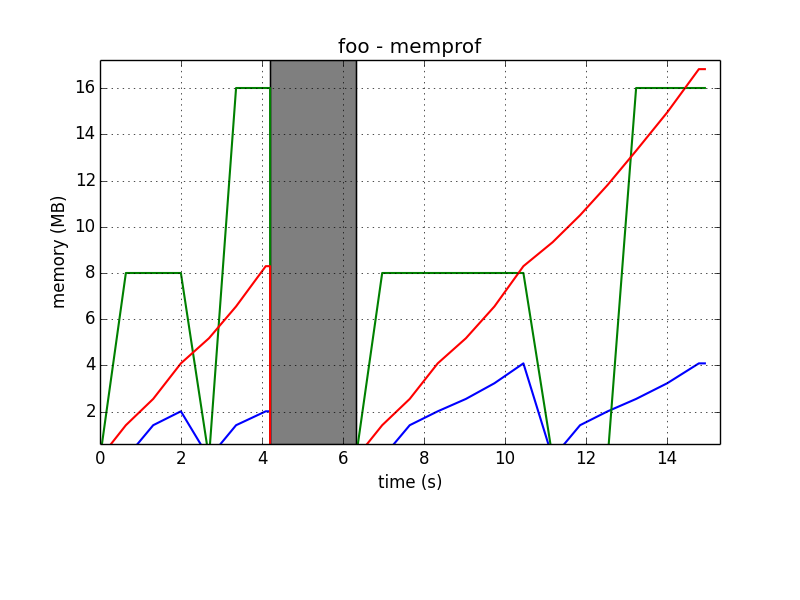
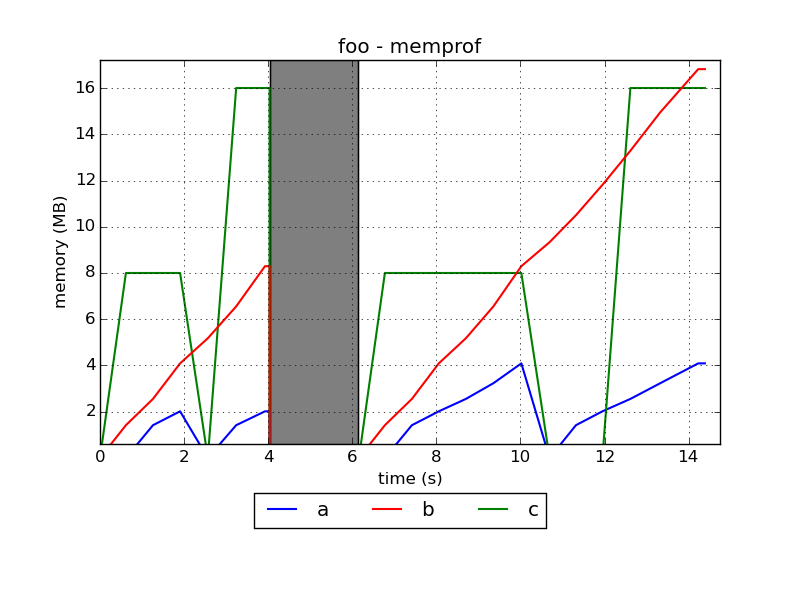
Chart's legends are back!

diff --git a/memprof/mp_utils.py b/memprof/mp_utils.py
@@ -107,7 +107,7 @@ def gen_plot(logfile, threshold):
 
     box = ax.get_position()
     ax.set_position([box.x0, box.y0 + box.height * 0.2, box.width, box.height * 0.8])
-    figure.legend(handles, labels, bbox_to_anchor=(0.5, -0.12), loc="upper center", ncol=5, borderaxespad=0.)
+    figure.legend(handles, labels, bbox_to_anchor=(0.5, .12), loc="lower center", ncol=5, borderaxespad=0.)
 
     canvas.print_figure("%s.png" % name)
 
